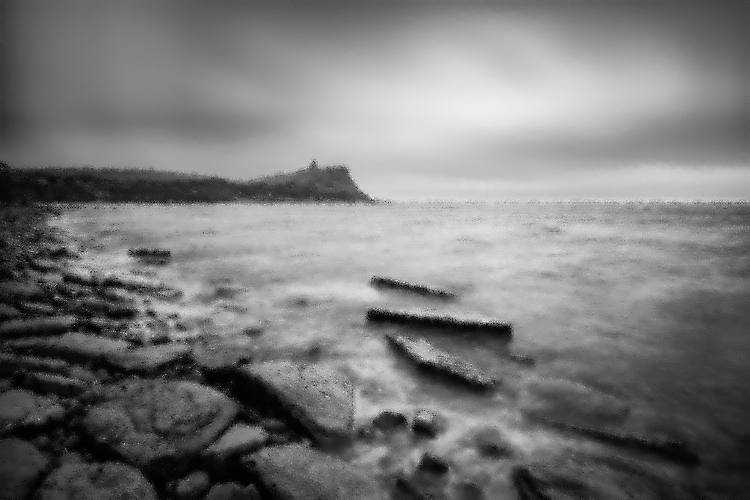
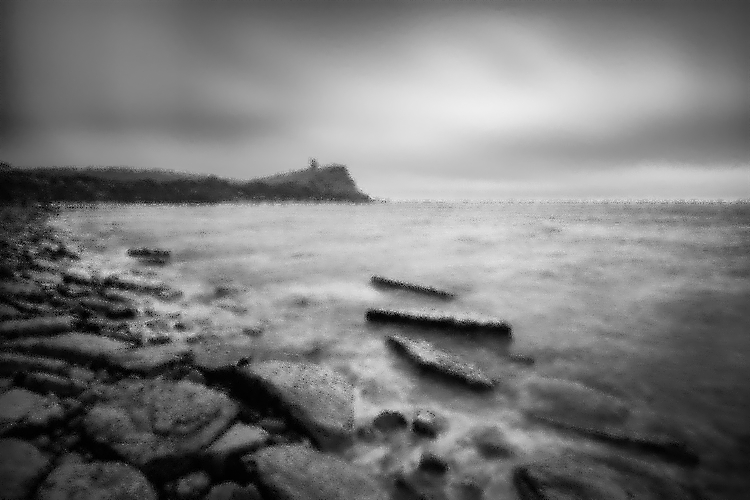
Finished nnExample

diff --git a/examples/nnExample.m b/examples/nnExample.m
@@ -1,5 +1,6 @@
 %% Add paths
 addpath('../nearestNeighbor');
+addpath('../svdAlgorithm');
 
 %% Initialize parameters
 imagePath = '../Images/beach.jpg'; 
@@ -9,4 +10,56 @@ writeDestination = '../Images/Processed/';
 writeExtension = '.png'; %For lossless compression
 isColor = false; % Don't forget to tell the program if the image is in color
 
-%% 
+sparsity = 0.7;
+numPixels = 16;
+writeFile = true;
+
+
+%% Make the Image Sparse
+M = double(imread(imagePath));
+if isColor
+    sparseM = makeSparse(M, sparsity);
+    tic;
+    Recon(:,:,1) = veryNaiveRecon(sparseM(:,:,1),numPixels);
+    Recon(:,:,2) = veryNaiveRecon(sparseM(:,:,2),numPixels);
+    Recon(:,:,3) = veryNaiveRecon(sparseM(:,:,3),numPixels);
+    time = toc;
+    Recon = uint8(Recon);
+    sparseM(isnan(sparseM)) = 255;
+    sparseM = uint8(sparseM);
+else
+    sparseM = makeSparse(M(:,:,1), sparsity);
+    tic;
+    Recon = veryNaiveRecon(sparseM, numPixels);
+    time = toc;
+    Recon = makeIm(Recon, Recon, Recon);
+    sparseM(isnan(sparseM)) = 255;
+    sparseM = makeIm(sparseM, sparseM, sparseM);
+end
+
+M = uint8(M);
+
+[rmse, psnr] = psnrDb(M, Recon, 255);
+image(Recon);
+
+%% Write image
+if writeFile
+    sparseName = sprintf('%s%s %s %i sparse%s', writeDestination, ...
+         writeType, writeIdentifier, 100*sparsity, writeExtension);
+    reconName = sprintf('%s%s %s %i sparse %i nearest%s', ...
+        writeDestination, writeType, writeIdentifier, 100*sparsity, ...
+        numPixels, writeExtension);
+    imwrite(sparseM, sparseName);
+    imwrite(Recon, reconName);
+end
+
+
+
+
+
+
+
+
+
+
+
